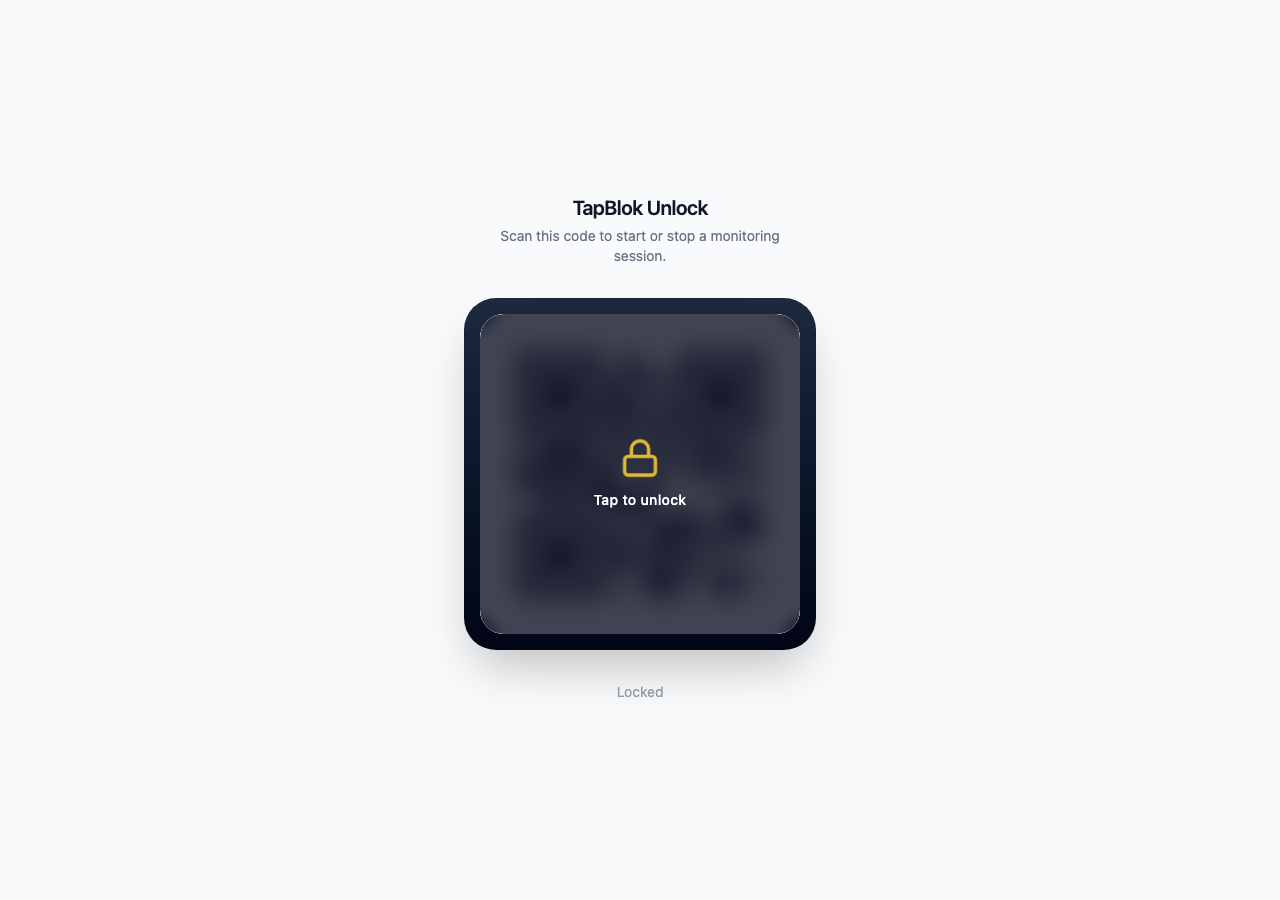
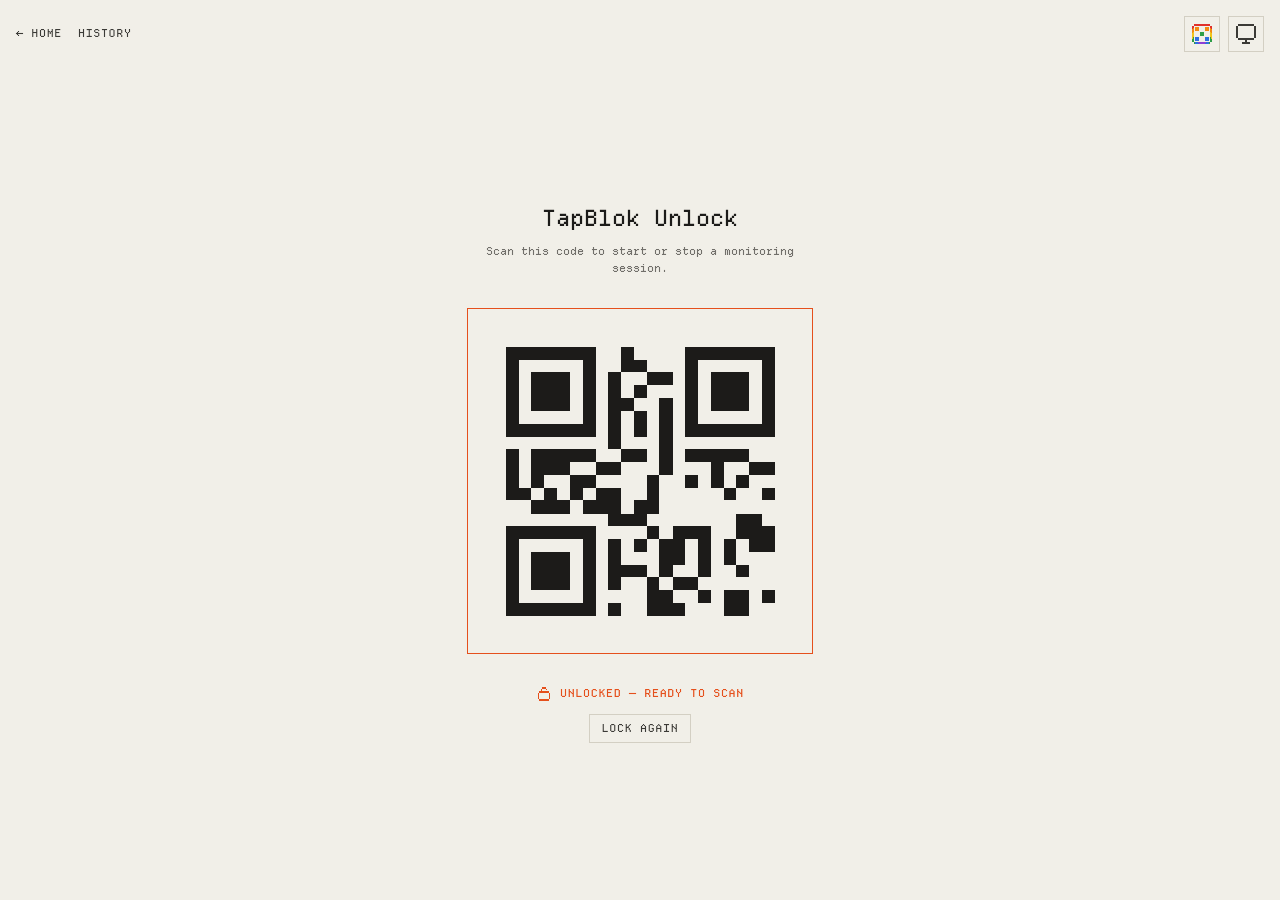
feat(tapblok): the QR code sits under a dithered accent cover that dissolves away through a Bayer pattern, on the pixel theme
TapBlok is the first app on the pixel theme the notes moved to. Until now it was the slate-and-emerald glass panel with a blur, halo, sweep and spring.

- **Apps reach the pixel theme through PixelAppLayout**
  AppLayout stays on plain Tailwind. Putting the theme in `app.css` would restyle every app at once: `font-mono` becomes Departure Mono and `hr` becomes dithered.
  The layout owns the nav: Home, History, and the Astro accent dice and theme toggle. So `ThemeToggle.jsx` and the home-link unit test leave tapblok.

- **The lock is an opaque cover that stays mounted, so it can dissolve in both directions**
  It reuses the generated `undither`/`redither` keyframes that card screenshots use, at 0.4s instead of 0.1s.
  `data-cover` is `still` on load, so the page doesn't play an animation before anyone touches it.

- **The QR stays dark-on-light in dark mode**
  A light-on-dark code is an inverted QR, and not every scanner reads one.

- **The card screenshot shows TapBlok unlocked, with its QR code** (light, 1280×900)
  The card dithers its screenshot in the accent. The locked cover is already a dither of `rings`, so dithering it again lost the rings in speckle. The QR's solid modules hold together.

Changed region(s): [[0.3438, 0.2178, 0.6562, 0.84], [0.9375, 0.0311, 1.0, 0.0622], [0.0312, 0.0311, 0.0938, 0.0622]]

diff --git a/src/pages/tapblok/_app/app.jsx b/src/pages/tapblok/_app/app.jsx
@@ -1,30 +1,31 @@
 import { createRoot } from 'react-dom/client';
 import { useEffect, useRef, useState } from 'react';
 import QRCode from 'qrcode';
-import lockIcon from 'lucide-static/icons/lock.svg?raw';
-import lockOpenIcon from 'lucide-static/icons/lock-open.svg?raw';
-import scanIcon from 'lucide-static/icons/scan-line.svg?raw';
-import { ThemeToggle } from '../../../components/ThemeToggle.jsx';
+import lockIcon from 'pixelarticons/svg/lock.svg?raw';
+import unlockIcon from 'pixelarticons/svg/unlock.svg?raw';
+import { PAGE_BACKGROUND } from '../../../lib/accents.js';
 import './unlock.css';
 
 // The code TapBlok's own "Your QR Code" screen shows — scanning it starts or
 // stops a monitoring session.
 const PAYLOAD = 'TAPBLOK_TOGGLE';
 
+// The light theme's --heading on its page colour, in both themes: scanners want dark-on-light.
+const INK = '#1c1b19';
+
 function Icon({ svg, className }) {
   return (
     <span
       aria-hidden="true"
-      className={`inline-block [&>svg]:w-full [&>svg]:h-full ${className}`}
+      className={`inline-block [&>svg]:w-full [&>svg]:h-full [&>svg]:[shape-rendering:crispEdges] ${className}`}
       dangerouslySetInnerHTML={{ __html: svg }}
     />
   );
 }
 
-export function App({ historyUrl }) {
+export function App() {
   const [unlocked, setUnlocked] = useState(false);
-  // Bumped on every unlock so the CSS animations remount and replay.
-  const [run, setRun] = useState(0);
+  const [touched, setTouched] = useState(false);
   const [drawn, setDrawn] = useState(false);
   const canvasRef = useRef(null);
 
@@ -34,7 +35,7 @@ export function App({ historyUrl }) {
     QRCode.toCanvas(canvas, PAYLOAD, {
       width: 512,
       margin: 2,
-      color: { dark: '#0f172a', light: '#ffffff' },
+      color: { dark: INK, light: PAGE_BACKGROUND },
     }).then(
       () => {
         // `toCanvas` stamps an inline 512px size on the element, which would
@@ -47,127 +48,80 @@ export function App({ historyUrl }) {
     );
   }, []);
 
-  const unlock = () => {
-    setUnlocked(true);
-    setRun((n) => n + 1);
+  const toggle = (next) => {
+    setUnlocked(next);
+    setTouched(true);
   };
 
+  const cover = unlocked ? 'out' : touched ? 'in' : 'still';
+
   return (
-    <div className="flex flex-col min-h-screen p-4 gap-4 text-gray-900 dark:text-gray-100">
-      <nav className="flex items-center gap-3 text-sm text-gray-400">
-        <a
-          href="../"
-          className="inline-flex items-center gap-1 hover:text-gray-600 dark:hover:text-gray-300 transition-colors"
-        >
-          ← Home
-        </a>
-        {historyUrl && (
-          <a
-            href={historyUrl}
-            target="_blank"
-            rel="noopener"
-            className="hover:text-gray-600 dark:hover:text-gray-300 transition-colors"
-          >
-            history
-          </a>
-        )}
-        <ThemeToggle className="ml-auto" />
-      </nav>
+    <main className="flex-1 flex flex-col items-center justify-center gap-8 py-4">
+      <header className="flex flex-col items-center gap-2 text-center">
+        <h1 className="page-title">TapBlok Unlock</h1>
+        <p className="page-sub max-w-xs">Scan this code to start or stop a monitoring session.</p>
+      </header>
 
-      <main className="flex-1 flex flex-col items-center justify-center gap-8 py-4">
-        <header className="flex flex-col items-center gap-1 text-center">
-          <h1 className="text-xl font-semibold tracking-tight">TapBlok Unlock</h1>
-          <p className="max-w-xs text-sm text-gray-500 dark:text-gray-400">
-            Scan this code to start or stop a monitoring session.
-          </p>
-        </header>
-
-        {/* The canvas must stay mounted across lock/unlock — everything that
-            animates is a sibling, keyed on `run` so it replays. */}
+      <div className={`border p-3 ${unlocked ? 'border-accent' : 'border-border'}`}>
         <div
-          className={`relative rounded-[2rem] bg-gradient-to-b from-slate-800 to-slate-950 p-4 shadow-2xl ring-1 transition-colors duration-700 ${
-            unlocked ? 'ring-emerald-400/40' : 'ring-white/10'
-          }`}
+          className="relative h-64 w-64 sm:h-80 sm:w-80"
+          style={{ backgroundColor: PAGE_BACKGROUND }}
         >
-          {unlocked && (
-            <span
-              key={`halo-${run}`}
-              className="tapblok-halo pointer-events-none absolute inset-0 rounded-[2rem]"
-            />
+          <canvas
+            ref={canvasRef}
+            className={drawn ? 'h-full w-full [image-rendering:pixelated]' : 'hidden'}
+          />
+          {!drawn && (
+            <span className="flex h-full items-center justify-center break-all p-3 text-center font-mono text-sm" style={{ color: INK }}>
+              {PAYLOAD}
+            </span>
           )}
 
-          <div className="relative h-64 w-64 overflow-hidden rounded-3xl bg-white sm:h-80 sm:w-80">
-            <div
-              className={`flex h-full w-full items-center justify-center p-3 transition-[filter,transform] duration-700 ${
-                unlocked ? 'scale-100 blur-0' : 'scale-[0.97] blur-md'
-              }`}
-            >
-              <canvas
-                ref={canvasRef}
-                className={drawn ? 'h-full w-full' : 'hidden'}
-              />
-              {!drawn && (
-                <span className="break-all text-center font-mono text-sm text-slate-900">
-                  {PAYLOAD}
-                </span>
-              )}
-            </div>
-
-            {unlocked && (
-              <span
-                key={run}
-                className="tapblok-sweep pointer-events-none absolute inset-y-0 -left-1/3 w-1/3 bg-gradient-to-r from-transparent via-white/80 to-transparent"
-              />
-            )}
-
-            {!unlocked && (
-              <button
-                type="button"
-                onClick={unlock}
-                aria-label="Unlock the QR code"
-                className="group absolute inset-0 flex cursor-pointer flex-col items-center justify-center gap-3 bg-slate-950/75 text-white backdrop-blur-sm focus-visible:outline-2 focus-visible:-outline-offset-4 focus-visible:outline-emerald-400"
-              >
-                <Icon
-                  svg={lockIcon}
-                  className="tapblok-breathe h-10 w-10 text-amber-300 transition-transform duration-300 group-hover:scale-110"
-                />
-                <span className="text-sm font-medium tracking-wide">Tap to unlock</span>
-              </button>
-            )}
+          <div
+            data-cover={cover}
+            aria-hidden="true"
+            className="tapblok-cover pointer-events-none absolute inset-0 flex items-center justify-center bg-bg"
+          >
+            <span data-dither="rings" className="absolute inset-0" />
+            <span className="relative flex flex-col items-center gap-2 border border-border bg-bg px-4 py-3">
+              <Icon svg={lockIcon} className="h-10 w-10 text-accent" />
+              <span className="label text-heading">Tap to unlock</span>
+            </span>
           </div>
 
-          {unlocked && (
-            <Icon
-              key={`open-${run}`}
-              svg={lockOpenIcon}
-              className="tapblok-spring absolute -top-4 -right-3 h-9 w-9 rounded-full bg-emerald-500 p-1.5 text-slate-950 shadow-lg shadow-emerald-500/40"
+          {!unlocked && (
+            <button
+              type="button"
+              onClick={() => toggle(true)}
+              aria-label="Unlock the QR code"
+              className="absolute inset-0 cursor-pointer focus-visible:outline-2 focus-visible:-outline-offset-2 focus-visible:outline-accent"
             />
           )}
         </div>
+      </div>
 
-        <div className="flex h-16 flex-col items-center gap-3">
-          {unlocked ? (
-            <div key={run} className="tapblok-pop flex flex-col items-center gap-3">
-              <p className="inline-flex items-center gap-2 text-sm font-medium text-emerald-600 dark:text-emerald-400">
-                <Icon svg={scanIcon} className="h-4 w-4" />
-                Unlocked — ready to scan
-              </p>
-              <button
-                type="button"
-                onClick={() => setUnlocked(false)}
-                className="cursor-pointer rounded-full border border-gray-300 px-4 py-1.5 text-xs text-gray-500 transition-colors hover:border-gray-400 hover:text-gray-700 dark:border-gray-700 dark:text-gray-400 dark:hover:border-gray-500 dark:hover:text-gray-200"
-              >
-                Lock again
-              </button>
-            </div>
-          ) : (
-            <p className="text-sm text-gray-400 dark:text-gray-500">Locked</p>
-          )}
-        </div>
-      </main>
-    </div>
+      <div className="flex h-16 flex-col items-center gap-3">
+        {unlocked ? (
+          <>
+            <p className="label inline-flex items-center gap-2 text-accent">
+              <Icon svg={unlockIcon} className="h-4 w-4" />
+              Unlocked — ready to scan
+            </p>
+            <button
+              type="button"
+              onClick={() => toggle(false)}
+              className="label cursor-pointer border border-border px-3 py-1.5 hover:border-accent hover:bg-accent hover:text-bg"
+            >
+              Lock again
+            </button>
+          </>
+        ) : (
+          <p className="label opacity-70">Locked</p>
+        )}
+      </div>
+    </main>
   );
 }
 
 const mount = document.getElementById('app');
-if (mount) createRoot(mount).render(<App historyUrl={mount.dataset.historyUrl} />);
+if (mount) createRoot(mount).render(<App />);

diff --git a/src/pages/tapblok/_app/unlock.css b/src/pages/tapblok/_app/unlock.css
@@ -1,90 +1,21 @@
-/* Animations for the unlock sequence. Names are prefixed so they can't
-   collide with anything Tailwind generates. */
-
-@keyframes tapblok-pop {
-  from {
-    opacity: 0;
-    transform: scale(0.94);
-  }
-  to {
-    opacity: 1;
-    transform: scale(1);
-  }
+/* undither and redither are generated by DissolveKeyframes.astro, which PixelAppLayout renders. */
+.tapblok-cover {
+  mask-size: 4px 4px;
+  -webkit-mask-size: 4px 4px;
+  mask-repeat: repeat;
+  -webkit-mask-repeat: repeat;
 }
 
-@keyframes tapblok-sweep {
-  from {
-    opacity: 0;
-    transform: translateX(-150%) skewX(-16deg);
-  }
-  25% {
-    opacity: 0.85;
-  }
-  to {
-    opacity: 0;
-    transform: translateX(250%) skewX(-16deg);
-  }
+.tapblok-cover[data-cover="out"] {
+  animation: redither 0.4s step-end both;
 }
 
-@keyframes tapblok-halo {
-  from {
-    box-shadow: 0 0 0 0 rgb(16 185 129 / 0.5);
-  }
-  to {
-    box-shadow: 0 0 0 32px rgb(16 185 129 / 0);
-  }
-}
-
-@keyframes tapblok-breathe {
-  0%,
-  100% {
-    opacity: 0.75;
-    transform: scale(1);
-  }
-  50% {
-    opacity: 1;
-    transform: scale(1.06);
-  }
-}
-
-@keyframes tapblok-spring {
-  0% {
-    transform: rotate(0deg) scale(1);
-  }
-  35% {
-    transform: rotate(-14deg) scale(1.18) translateY(-6px);
-  }
-  to {
-    transform: rotate(0deg) scale(1);
-  }
-}
-
-.tapblok-pop {
-  animation: tapblok-pop 550ms cubic-bezier(0.16, 1, 0.3, 1) both;
-}
-
-.tapblok-sweep {
-  animation: tapblok-sweep 900ms cubic-bezier(0.4, 0, 0.2, 1) 120ms both;
-}
-
-.tapblok-halo {
-  animation: tapblok-halo 900ms cubic-bezier(0.16, 1, 0.3, 1) both;
-}
-
-.tapblok-breathe {
-  animation: tapblok-breathe 2.4s ease-in-out infinite;
-}
-
-.tapblok-spring {
-  animation: tapblok-spring 600ms cubic-bezier(0.16, 1, 0.3, 1) both;
+.tapblok-cover[data-cover="in"] {
+  animation: undither 0.4s step-end both;
 }
 
 @media (prefers-reduced-motion: reduce) {
-  .tapblok-pop,
-  .tapblok-sweep,
-  .tapblok-halo,
-  .tapblok-breathe,
-  .tapblok-spring {
-    animation: none;
+  .tapblok-cover {
+    animation-duration: 0s !important;
   }
 }

diff --git a/src/pages/tapblok/_app/app.test.jsx b/src/pages/tapblok/_app/app.test.jsx
@@ -10,12 +10,6 @@ describe('TapBlok Unlock', () => {
     expect(screen.getByText('TapBlok Unlock')).toBeTruthy();
   });
 
-  test('has a home link', () => {
-    render(<App />);
-    const home = screen.getByText('← Home').closest('a');
-    expect(home.getAttribute('href')).toBe('../');
-  });
-
   test('starts locked', () => {
     render(<App />);
     expect(screen.getByText('Locked')).toBeTruthy();
@@ -32,5 +26,17 @@ describe('TapBlok Unlock', () => {
     fireEvent.click(screen.getByText('Lock again'));
     expect(screen.getByText('Locked')).toBeTruthy();
     expect(screen.getByLabelText('Unlock the QR code')).toBeTruthy();
+  });
+
+  test('the cover dissolves out on unlock and back in on lock, but not on load', () => {
+    const { container } = render(<App />);
+    const cover = container.querySelector('[data-cover]');
+    expect(cover.dataset.cover).toBe('still');
+
+    fireEvent.click(screen.getByLabelText('Unlock the QR code'));
+    expect(cover.dataset.cover).toBe('out');
+
+    fireEvent.click(screen.getByText('Lock again'));
+    expect(cover.dataset.cover).toBe('in');
   });
 });

diff --git a/src/styles/pixel-app.css b/src/styles/pixel-app.css
@@ -1,0 +1,2 @@
+@import "tailwindcss";
+@import "./theme.css";
